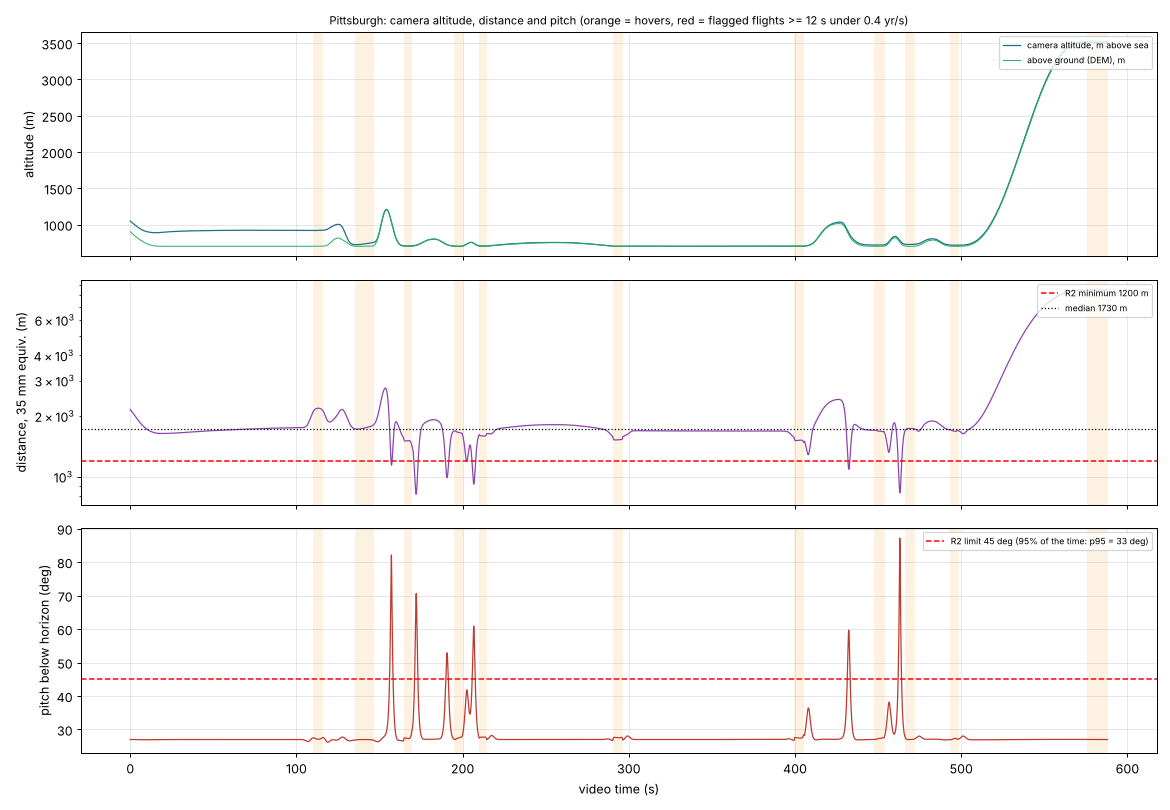
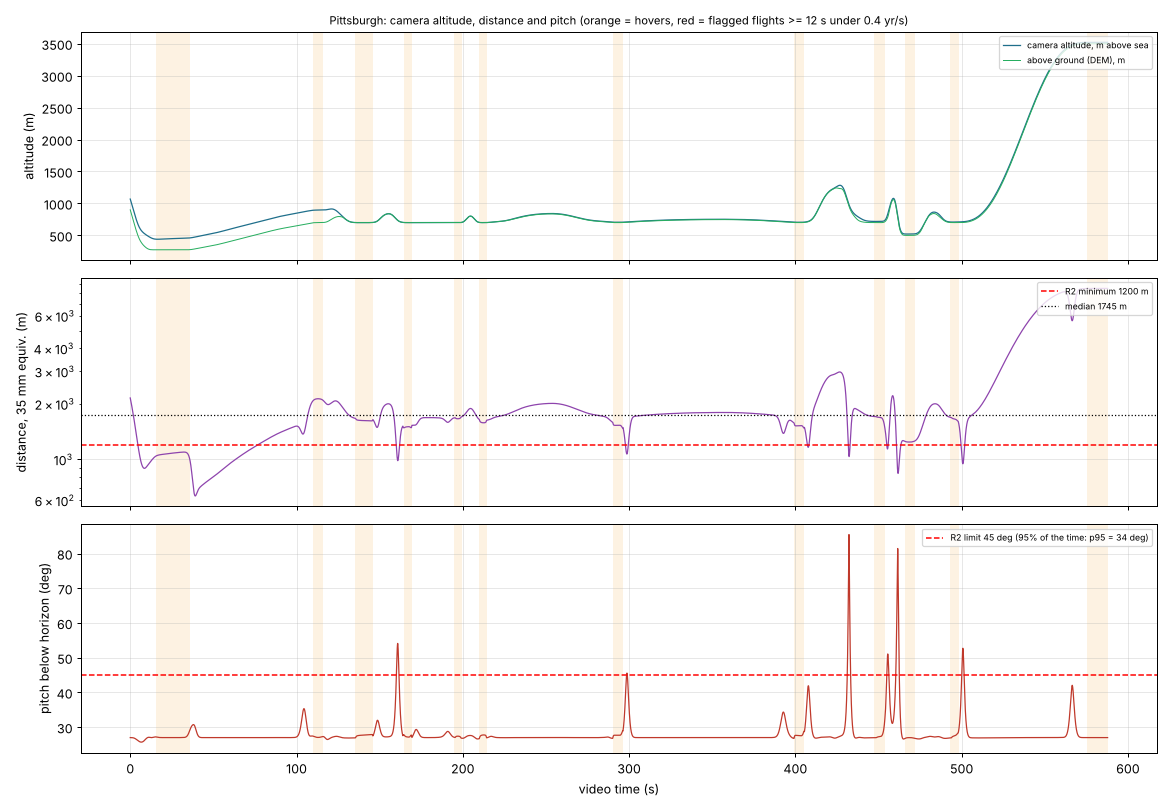
Pittsburgh: water_color V2 (#2c6663/#378078), plots regenerated, dossier verdict

diff --git a/cities/pittsburgh/gate/DOSSIER.md b/cities/pittsburgh/gate/DOSSIER.md
@@ -1,13 +1,13 @@
 # GO dossier: Pittsburgh (pittsburgh)
 
-Generated by `python -m kit gate pittsburgh` on 2026-11-17 15:40 in 3301 s. **Overall: FAIL** (gate checks, including every kit qa FAIL) / kit qa alone: **WARN**. No pod before a written GO (R3).
+Generated by `python -m kit gate pittsburgh` on 2026-11-17 15:40 in 3301 s. **Overall: WARN, 0 FAIL** (matplotlib FAIL resolved: plots.png and drone_path.png regenerated with pghenv python on the same schedule; contact sheet frames predate the `look.water_color` merge, see water crops) / kit qa alone: **WARN**. No pod before a written GO (R3).
 
 ## Verdict (R2)
 
 - **PASS** R2 camera distance: median 1745 m (35 mm equiv.), minimum 1200; refs: Copenhagen 1397, Paris 1427
 - **PASS** R2 look angle: p95 34 deg (limit 45), 98.5% of keys under it, max 85 deg
 - **PASS** R2 frozen-counter flights: 0 flight(s) >= 12 s under 0.4 yr/s
-- **FAIL** plots not produced: No module named 'matplotlib'
+- **PASS** plots: plots.png (median 1745 m, p95 pitch 34 deg) regenerated with /home/user/pghenv/bin/python
 - **PASS** contact sheet: 26/26 real local frames: contact_sheet.jpg
 - **WARN** packaging draft: the left frame shows year 2026, the label says 1754: the frame must show the first year (Lyon's mistake); city json has no cover.shots: frames are a fallback (first hover / last flight second), define cover.shots
 - **WARN** banner: branch claude/pittsburgh-int has no upstream: not pushed
@@ -21,7 +21,7 @@ Frames: flight:flight #1 -> Fort Duquesne and Fort Pitt (1@7.9s; flight:flight #
 
 ## 2. Camera altitude, distance, pitch
 
-**NOT PRODUCED**
+![plots](plots.png)
 
 ![path](drone_path.png)
 

diff --git a/cities/pittsburgh/qa/REPORT.md b/cities/pittsburgh/qa/REPORT.md
@@ -1,13 +1,13 @@
 # QA pittsburgh
 
-Generato da `python -m kit.qa` il 2026-11-17 14:44. Esito complessivo: **WARN**
+Generato da `python -m kit.qa` il 2026-11-17 18:14. Esito complessivo: **WARN**
 
 | Sezione | Esito |
 |---|---|
 | a) Story e fonti | PASS |
 | b) DATA | PASS |
 | d) Corridoi vuoti | WARN |
-| e) Costo e schedule | WARN |
+| e) Costo e schedule | PASS |
 
 ## a) Story e fonti
 
@@ -82,8 +82,8 @@ Generato da `python -m kit.qa` il 2026-11-17 14:44. Esito complessivo: **WARN**
   - mediana 1745 m equivalenti a 35 mm (obiettivo 32 mm); riferimenti: Copenaghen 1397, Parigi 1427, Madrid 2538, Lione 930 (giudicata troppo vicina); soglia 1200
 - **PASS** drone: esattezza anni
   - soste: y0 e y1 esatti sulla finestra di hover; cartelli fuori hover esatti; cartelli durante un hover e voli: anni flessibili (il contatore scorre fra le voci)
-- **WARN** drone: grafico non fatto
-  - No module named 'matplotlib'
+- **PASS** drone: grafico del percorso
+  - qa/drone_path.png
 - **PASS** ritmo: nessun vuoto > 15 s senza stimolo nuovo
   - vuoto massimo 14.5 s (78-93 s)
 - **PASS** ritmo: anni/s per minuto
